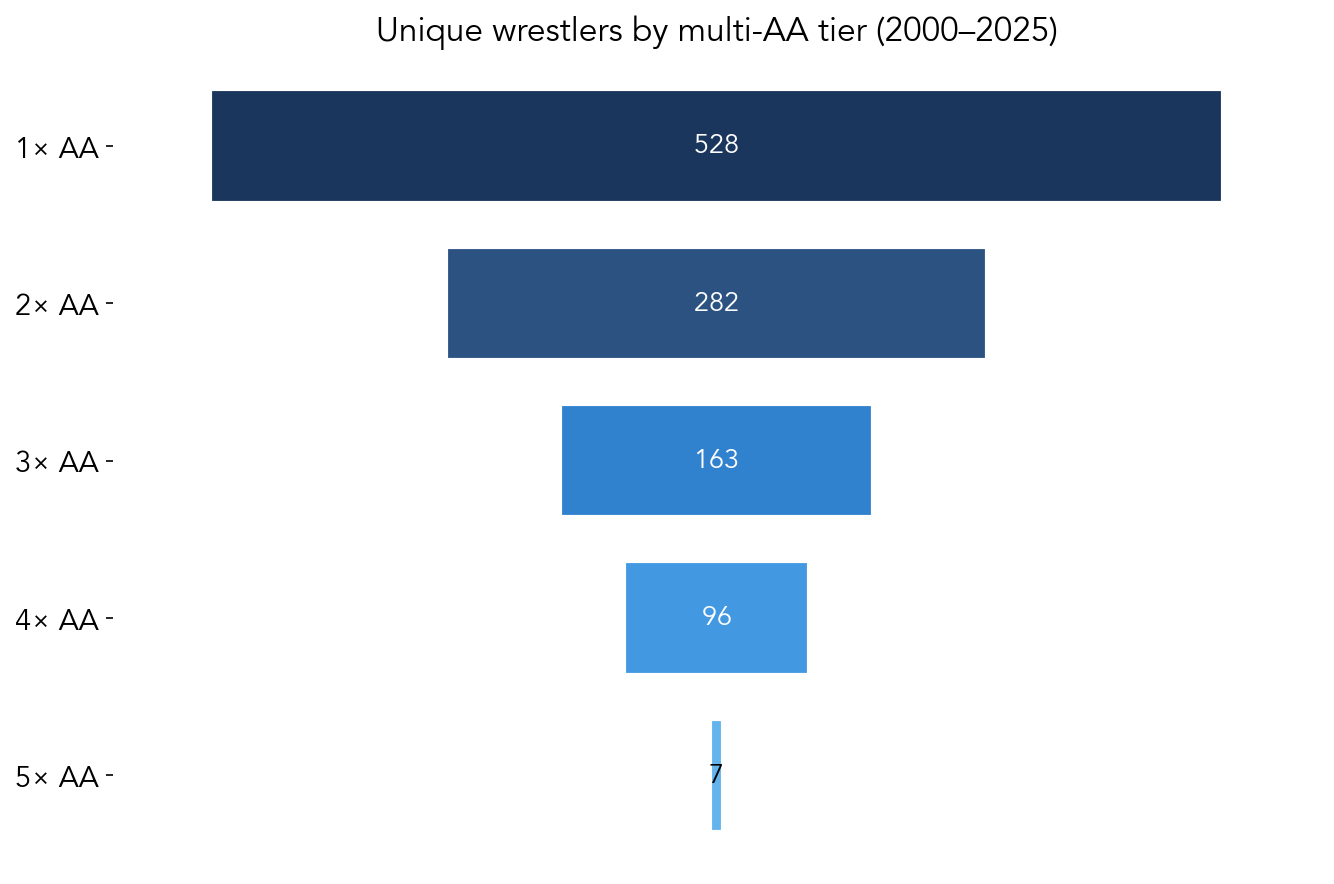
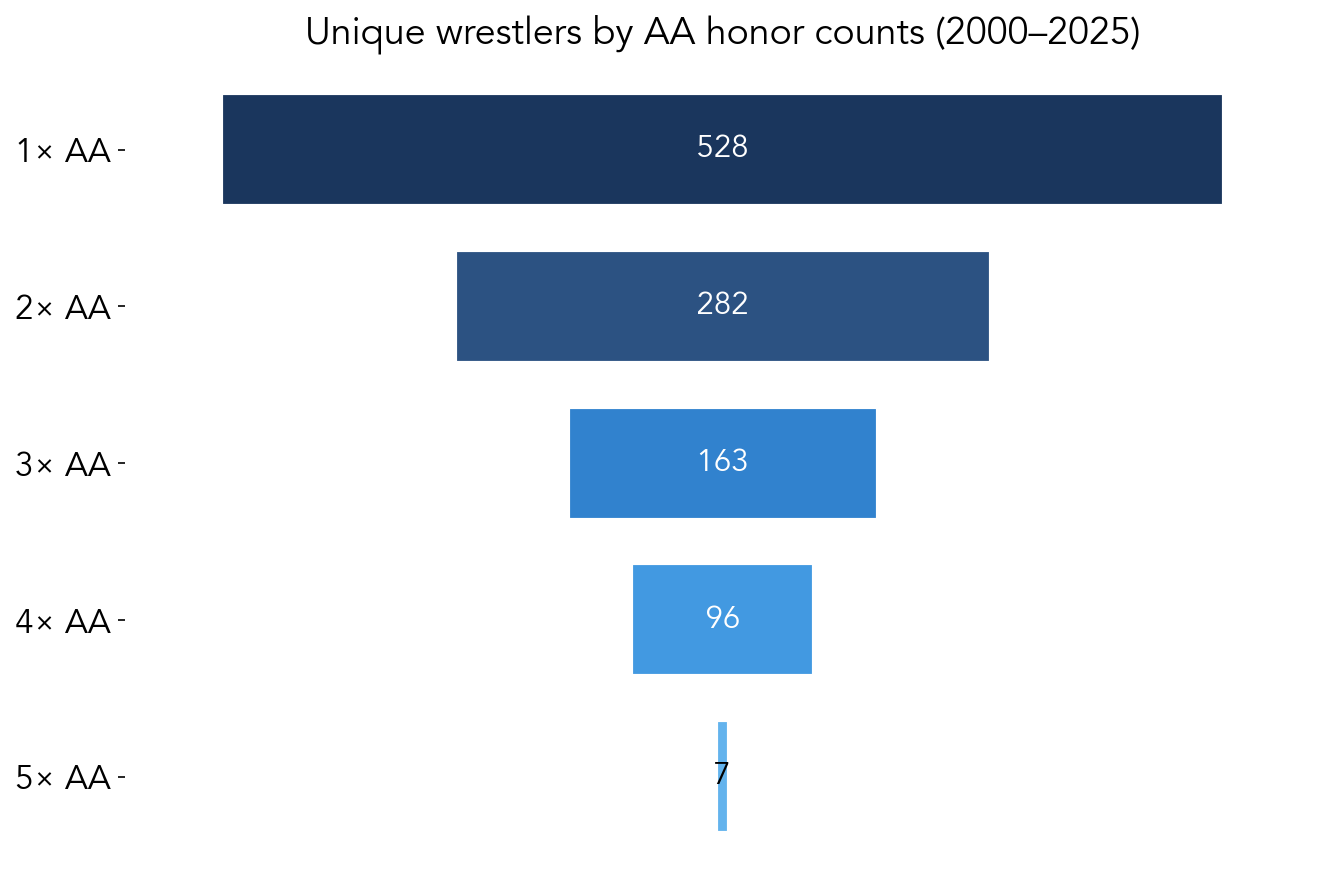
Funnel: larger text (16/18/15pt); combo tables: center headers and Count/% columns

diff --git a/docs/styles.css b/docs/styles.css
@@ -147,6 +147,12 @@ tr:hover {
 .eligibility-combo-table thead th {
     background-color: #9ca3af;
     color: #fff;
+    text-align: center;
+}
+/* Center Count and % columns in all combo tables */
+.eligibility-combo-table td:nth-child(6),
+.eligibility-combo-table td:nth-child(7) {
+    text-align: center;
 }
 .eligibility-combo-table th,
 .eligibility-combo-table td {

diff --git a/notebooks/analysis.py b/notebooks/analysis.py
@@ -496,16 +496,16 @@ bar_widths = [(w / max_w) * 2 * bar_half_scale for w in funnel_counts]
 colors = ["#1a365d", "#2c5282", "#3182ce", "#4299e1", "#63b3ed"]  # dark to light blue
 bars = ax.barh(y_pos, bar_widths, left=lefts, height=0.72, color=colors, edgecolor="white", linewidth=2)
 ax.set_yticks(y_pos)
-ax.set_yticklabels(["1× AA", "2× AA", "3× AA", "4× AA", "5× AA"], fontsize=14)
+ax.set_yticklabels(["1× AA", "2× AA", "3× AA", "4× AA", "5× AA"], fontsize=16)
 ax.set_xlim(0, 1)
 ax.set_xticks([])
 for spine in ["top", "right", "bottom", "left"]:
     ax.spines[spine].set_visible(False)
-ax.set_title("Unique wrestlers by multi-AA tier (2000–2025)", fontsize=16, fontweight="bold")
+ax.set_title("Unique wrestlers by AA honor counts (2000–2025)", fontsize=18, fontweight="bold")
 for i, yi in enumerate(y_pos):
     # 5× AA bar is tiny; use black text so the count is readable
     text_color = "black" if i == len(y_pos) - 1 else "white"
-    ax.text(x_center, yi, f"  {funnel_counts[i]:,}  ", ha="center", va="center", fontsize=13, fontweight="bold", color=text_color)
+    ax.text(x_center, yi, f"  {funnel_counts[i]:,}  ", ha="center", va="center", fontsize=15, fontweight="bold", color=text_color)
 plt.tight_layout()
 funnel_path = CHARTS_DIR / "multi_aa_funnel.png"
 funnel_site_path = SITE_CHARTS_DIR / "multi_aa_funnel.png"
